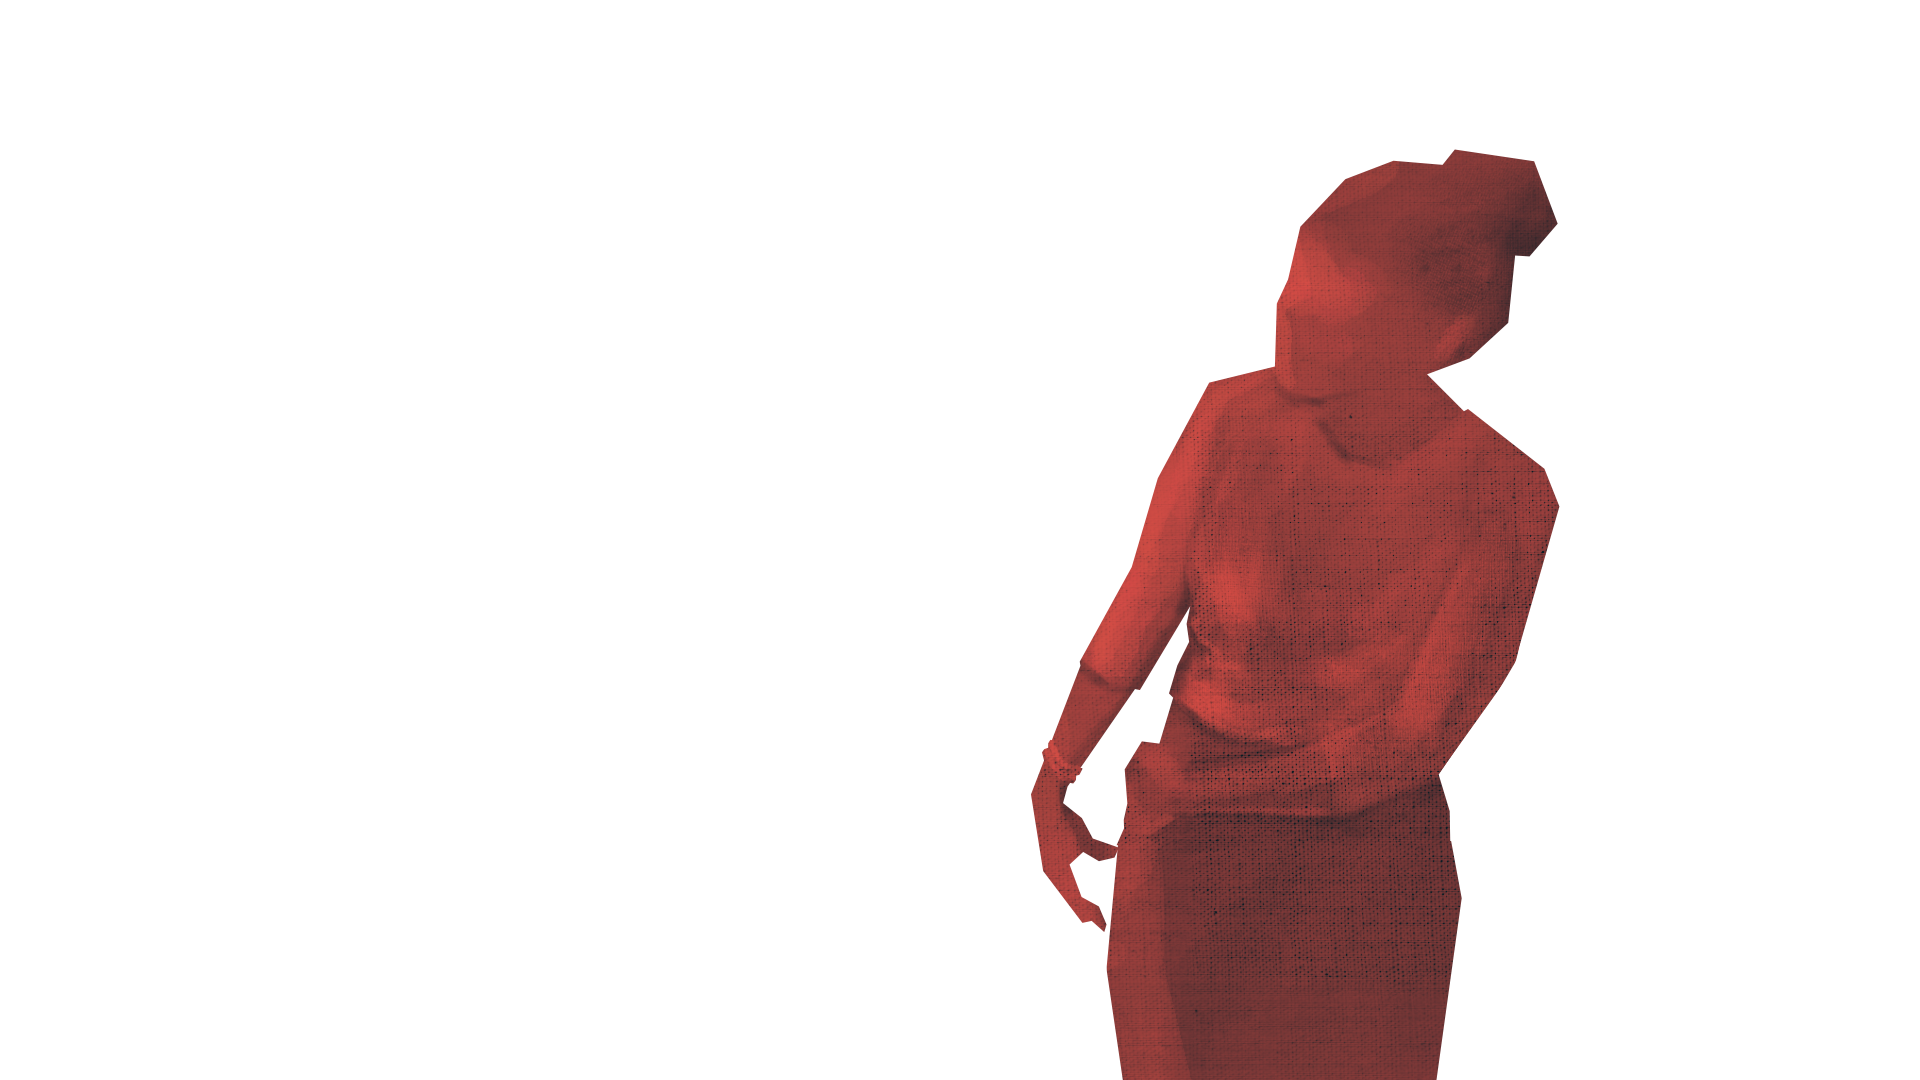
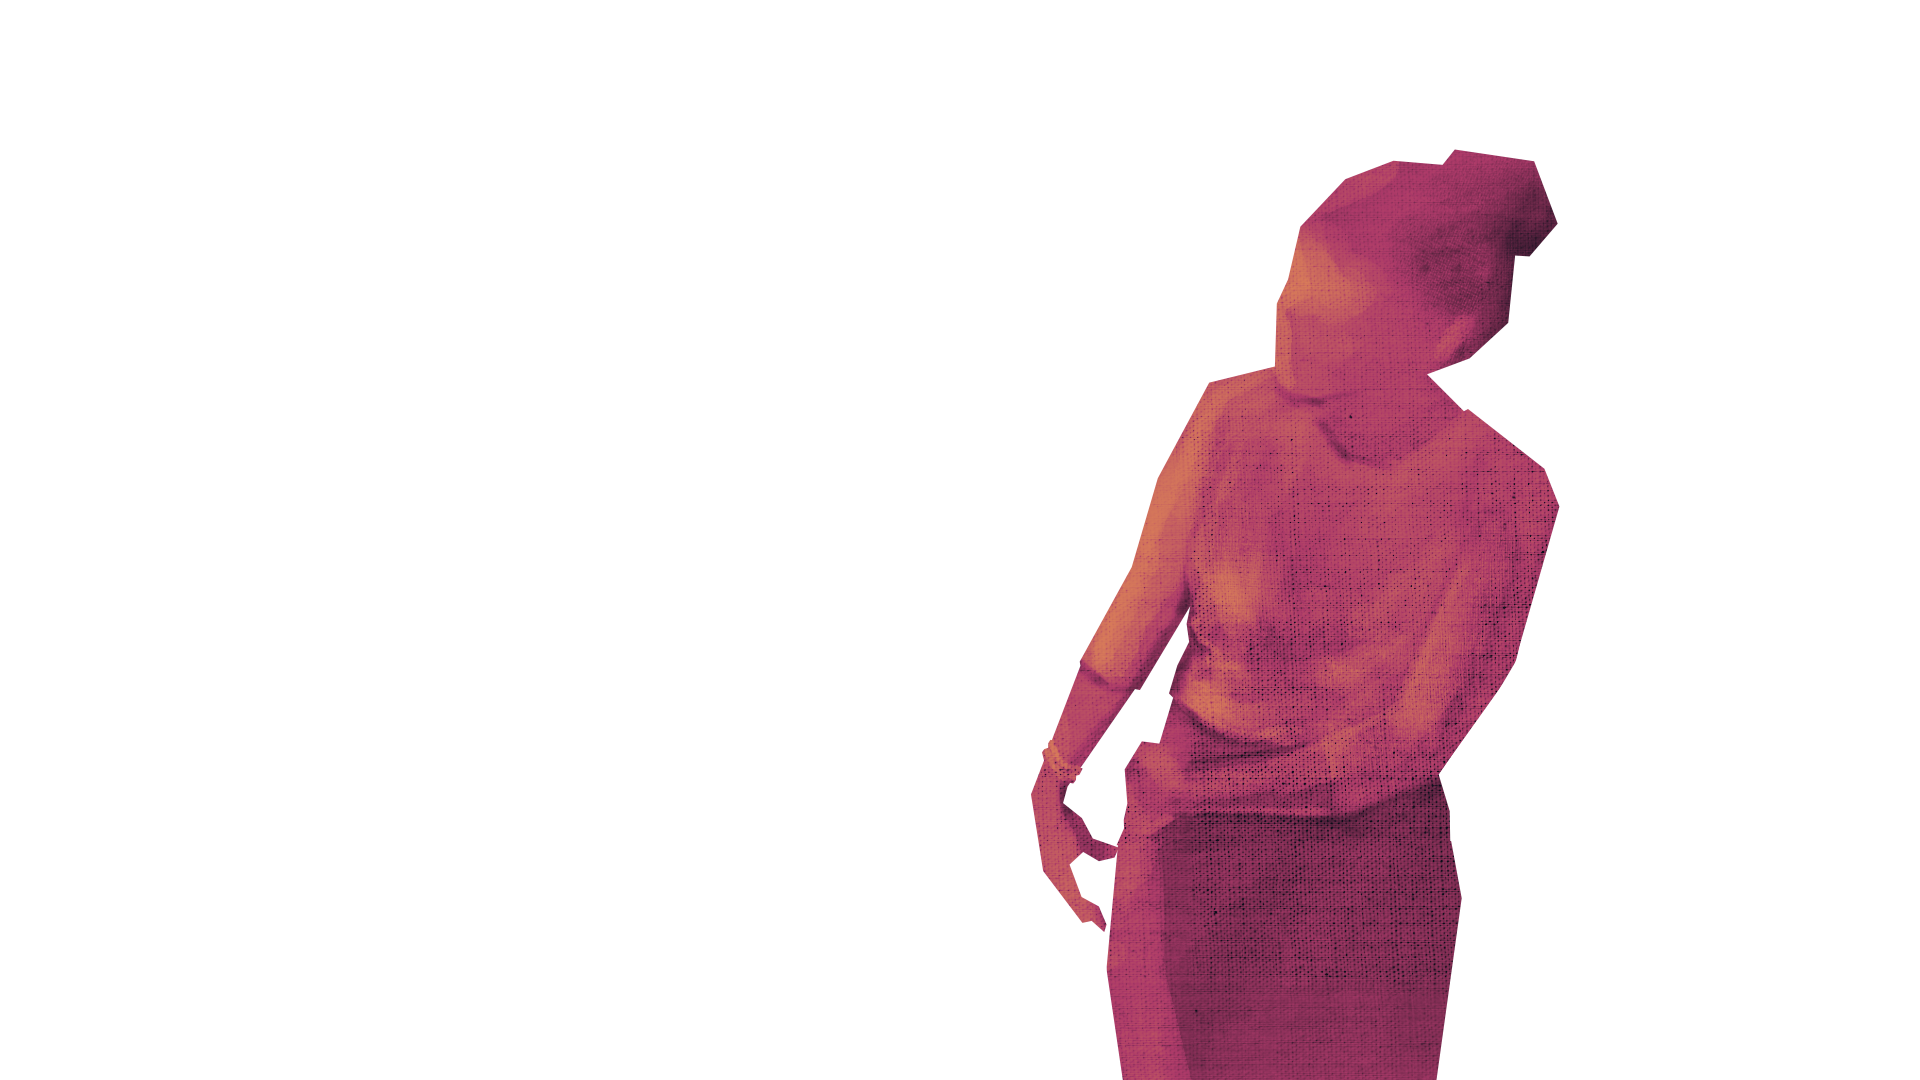
Lots of changes
added in
- updated character 1 coloring
- textures array
- zoom2x array and zoom3x images
- global scale and ratio
- blend modes
- changed position of slider
- code to draw images on top of each other
- adjusted gap for beat detection

Changed region(s): [[0.5312, 0.1222, 0.8125, 1.0]]

diff --git a/sketch.js b/sketch.js
@@ -3,23 +3,55 @@ var spacing = 100;
 var circleSize;
 var col1, col2, col3;
 var images = []; // Array to hold images
+var zoom2xImages = []; // Array to hold zoom2x images
 var currentImage; // To hold the current image
+var overlayImage; // To hold the overlay image
+var textureImages = [];
+var currentTexture;
 var lastBeatTime = 0;
 var beatThreshold = 0.1; // Adjust this threshold for beat detection
 let slider;
+let ratio = 1.6;
+let globeScale;
 
 function preload() {
   // Load your specific images
   images.push(loadImage('images/1.png'));
   images.push(loadImage('images/2.png'));
-  images.push(loadImage('images/3.png'));
+ // images.push(loadImage('images/3.png'));
   images.push(loadImage('images/4.png'));
-  images.push(loadImage('images/5.png'));
+  //images.push(loadImage('images/5.png'));
   images.push(loadImage('images/6.png'));
+  //images.push(loadImage('images/7.png'));
+  images.push(loadImage('images/8.png'));
+  images.push(loadImage('images/green3.png'));
+  images.push(loadImage('images/green5.png'));
+  images.push(loadImage('images/green7.png'));
+  //images.push(loadImage('images/green8.png'));
+
+
+  zoom2xImages.push(loadImage('zoom2x/z2_2.png'));
+  zoom2xImages.push(loadImage('zoom2x/z2_4.png'));
+  zoom2xImages.push(loadImage('zoom2x/z2_6.png'));
+  zoom2xImages.push(loadImage('zoom2x/z2_8.png'));
+
+  images.push(loadImage('zoom3x/z3_1.png'));
+  images.push(loadImage('zoom3x/z3_3.png'));
+  images.push(loadImage('zoom3x/z3_5.png'));
+  images.push(loadImage('zoom3x/z3_7.png'));
+
+  textureImages.push(loadImage('textures/paper.jpg'));
+  textureImages.push(loadImage('textures/grunge.jpg'));
+  textureImages.push(loadImage('textures/paint.jpg'));
+  textureImages.push(loadImage('textures/pink.jpg'));
+  textureImages.push(loadImage('textures/spray.jpg'));
+  textureImages.push(loadImage('textures/crayon.jpg'));
+  textureImages.push(loadImage('textures/gray.jpg'));
 }
 
 function setup() {
-  createCanvas(window.innerWidth, window.innerHeight);
+  createCanvas(window.innerWidth, window.innerWidth / ratio);
+  globeScale = min(width, height);
   
   mic = new p5.AudioIn();
   getAudioContext().suspend();
@@ -34,7 +66,11 @@ function setup() {
   col3 = color(100, 0, random(255));
   
   currentImage = random(images); // Load a random image at start
-  slider=createSlider(0,1,0.1,0.01);
+  overlayImage = random(zoom2xImages); // Load a random overlay image at start
+  currentTexture = random(textureImages);
+
+  slider = createSlider(0,1,0.1,0.01);
+  slider.position(100, 10);
 }
 
 function startAudio() {
@@ -50,12 +86,10 @@ function draw() {
   console.log(vol);
   circleSize = map(vol, 0, 1, 25, 200);
   
-  
-  
   noFill(); 
   for (var x = 0; x <= width; x += spacing) {
     for (var y = 0; y <= height + circleSize/2; y += spacing) {
-      stroke(col1); //play with opacity 
+      stroke(col1);
       ellipse(x, y, circleSize, circleSize);
       stroke(col2);
       ellipse(x, y, circleSize / 2, circleSize / 2);
@@ -65,15 +99,29 @@ function draw() {
   }
   
   // Draw the current image
-  //tint(3, 236, 252); 
   image(currentImage, width / 2 - currentImage.width / 2, height / 2 - currentImage.height / 2);
- // noTint(); 
- 
+  
+ blendMode(OVERLAY);
+ tint(255, 70);
+ if (overlayImage) {
+  image(overlayImage, width / 2 - overlayImage.width / 2, height / 2 - overlayImage.height / 2);
+}
+
+blendMode(SUBTRACT);
+tint(255, 255,255, 50);
+if (currentTexture) {
+  image(currentTexture, width / 2 - currentTexture.width / 2, height / 2 - currentTexture.height / 2);
+}
+noTint();
+blendMode(BLEND);
+
   // Check for beat detection
-  if (vol > beatThreshold && millis() - lastBeatTime > 300) { // 300ms gap for beat detection
+  if (vol > beatThreshold && millis() - lastBeatTime > 285) { // 300ms gap for beat detection
     console.log('Beat detected');
-    lastBeatTime = millis();
+    lastBeatTime = millis(); 
     currentImage = random(images); // Load a new random image on beat
+    overlayImage = random(zoom2xImages); // Change the overlay image
+    currentTexture = random(textureImages);
   }
 }
 
